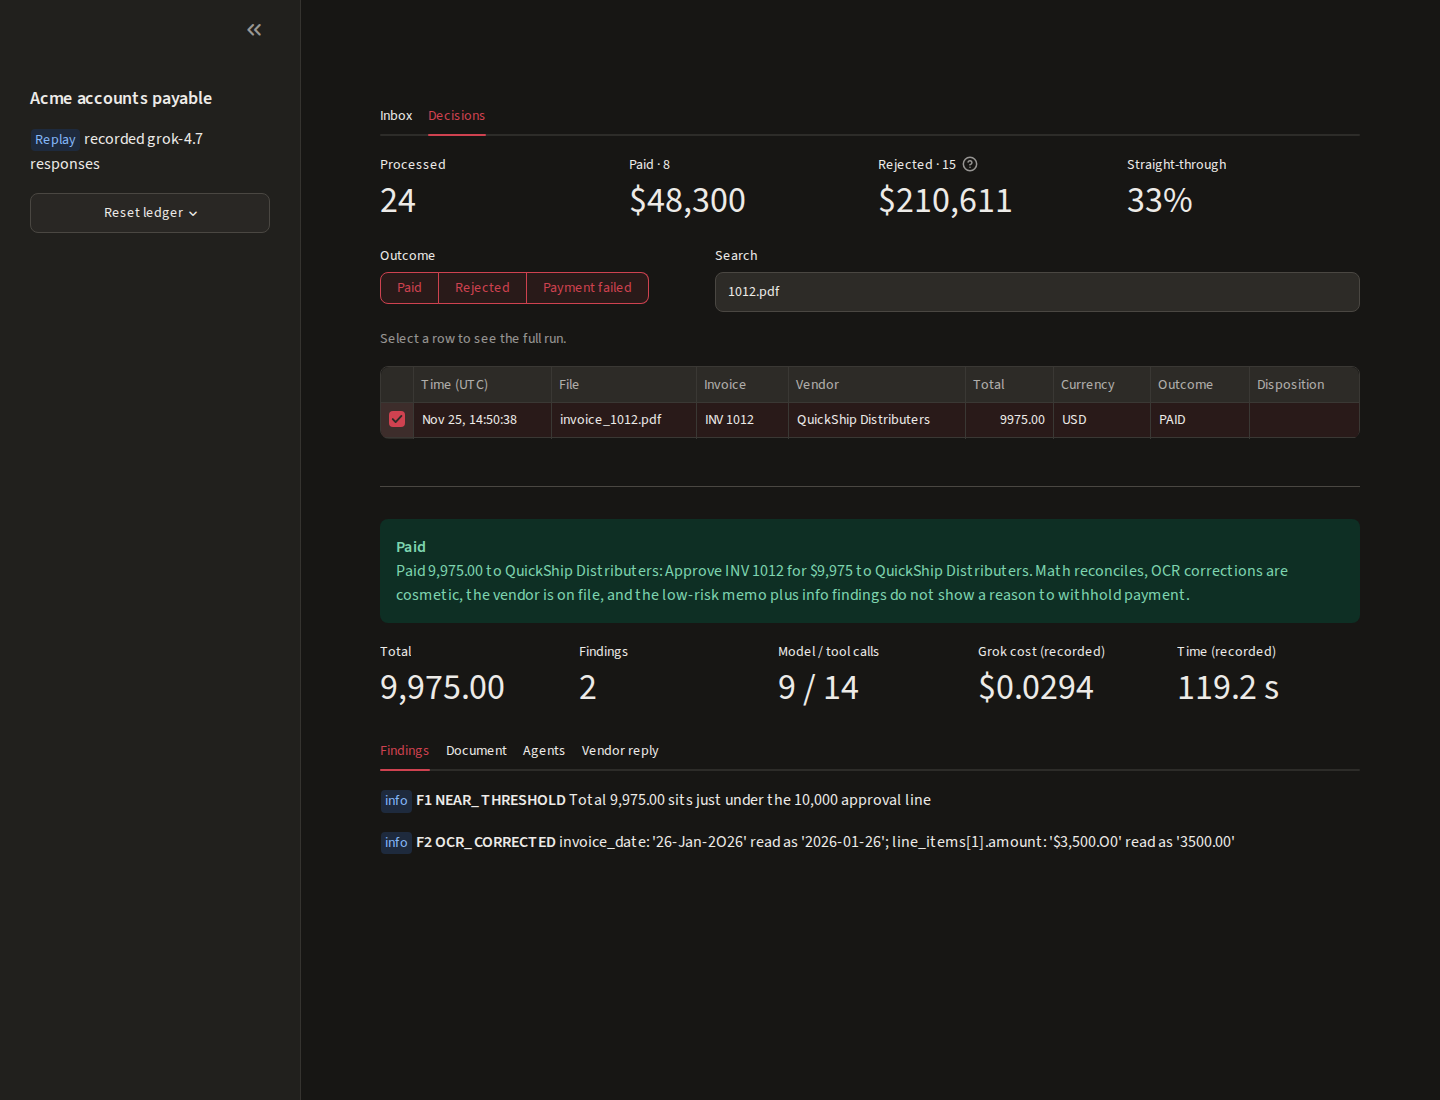
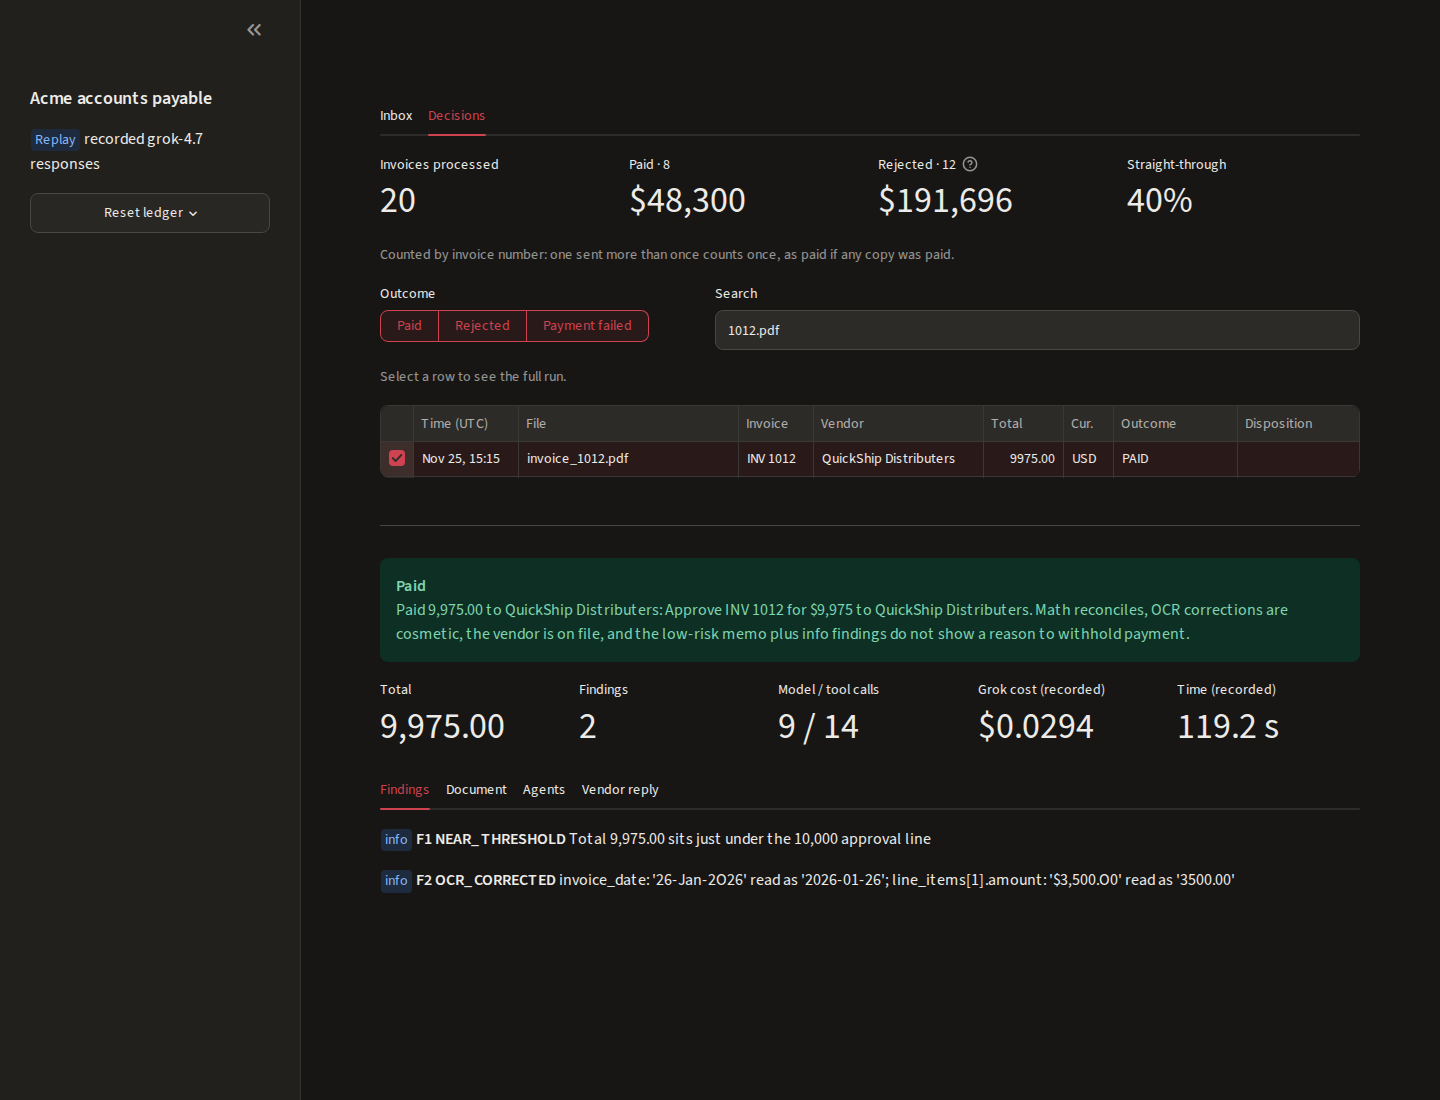
Fit every ledger column at 1440 px

diff --git a/ui/app.py b/ui/app.py
@@ -244,9 +244,15 @@ def decisions(store: Store) -> None:
     st.caption("Select a row to see the full run.")
     picked = st.dataframe(view.drop(columns=["run_id", "key"]), hide_index=True, width="stretch",
                           on_select="rerun", selection_mode="single-row",
-                          column_config={"Total": st.column_config.NumberColumn(format="%.2f"),
-                                         "Time": st.column_config.DatetimeColumn("Time (UTC)",
-                                                                                 format="MMM D, HH:mm:ss")})
+                          column_config={"Time": st.column_config.DatetimeColumn("Time (UTC)", format="MMM D, HH:mm",
+                                                                                 width=105),
+                                         "File": st.column_config.TextColumn(width=220),
+                                         "Invoice": st.column_config.TextColumn(width=75),
+                                         "Vendor": st.column_config.TextColumn(width=170),
+                                         "Total": st.column_config.NumberColumn(format="%.2f", width=80),
+                                         "Currency": st.column_config.TextColumn("Cur.", width=50),
+                                         "Outcome": st.column_config.TextColumn(width=124),
+                                         "Disposition": st.column_config.TextColumn(width=115)})
     rows = picked.selection.rows
     if rows:
         state = load_state(RUNS_DIR / view.iloc[rows[0]].run_id)
